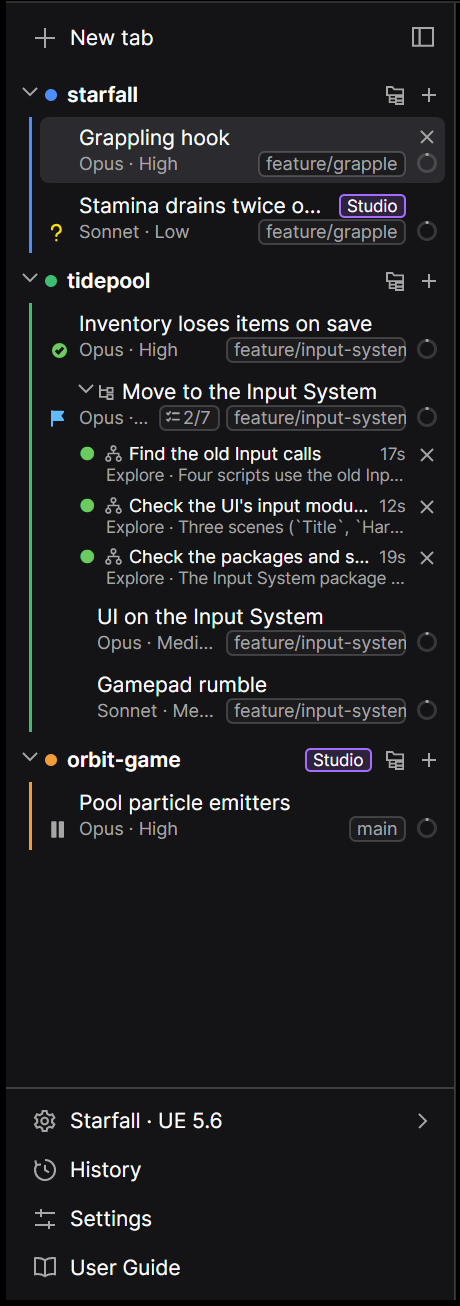
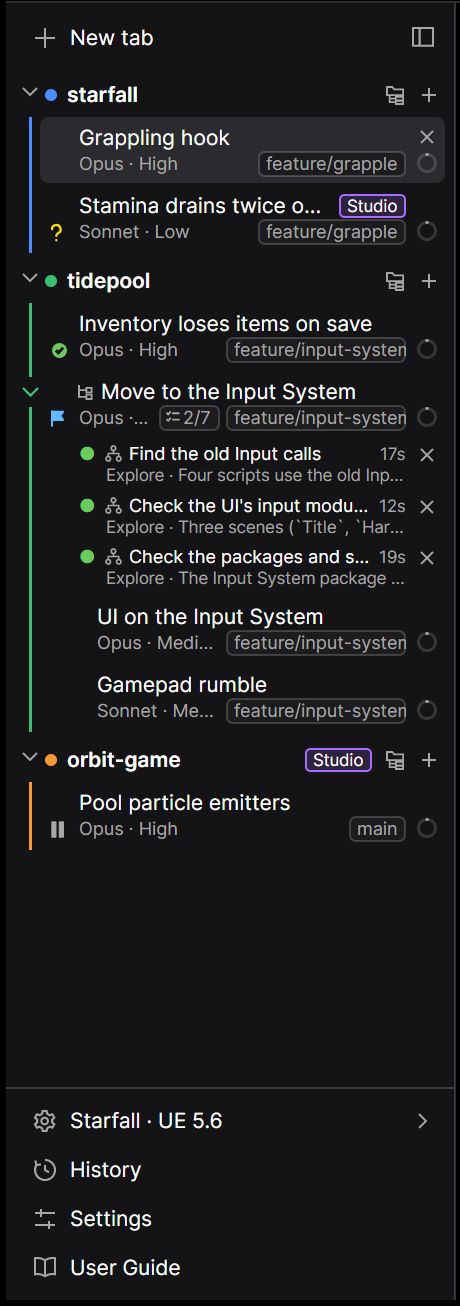
Put a tab's collapse chevron on its group's line
The chevron that folds away what's under a tab's row took room before
its name, so a thread or a tab with subagents looked as if it were under
the tab above it. It now sits on the group's colored line, in the
group's color and level with the name, with a gap in the line around it,
and takes no room in the row: every name in a group starts in the same
place, and only sub-threads are indented.

Controls/OnLine moves it across onto the line after each layout pass, on
whole screen pixels, so it's centered at any scale (margins counted from
the row's padding ended up a pixel off at 150%) and for a sub-thread too.
The tab rows and the list of tabs no longer clip, so it shows and can be
clicked out there.

Changed region(s): [[0.1826, 0.2757, 0.8217, 0.3063], [0.0609, 0.2757, 0.0913, 0.3063]]

diff --git a/tests/Claudette.App.UiTests/ThreadUiTests.cs b/tests/Claudette.App.UiTests/ThreadUiTests.cs
@@ -2,11 +2,14 @@ using Avalonia;
 using Avalonia.Automation;
 using Avalonia.Controls;
 using Avalonia.Headless.XUnit;
+using Avalonia.Input;
 using Avalonia.VisualTree;
 using Claudette.App.Services;
+using Claudette.App.Tests;
 using Claudette.App.Tests.Support;
 using Claudette.App.ViewModels;
 using Claudette.App.Views;
+using Claudette.Core.Settings;
 
 namespace Claudette.App.UiTests;
 
@@ -72,6 +75,48 @@ public class ThreadUiTests
         Assert.Same(plan, badge.DataContext);
         Assert.Equal("Collapsed: 2 sub-threads", ToolTip.GetTip(badge));
         Assert.Contains(badge.GetVisualDescendants().OfType<TextBlock>(), t => t is { Text: "2", IsEffectivelyVisible: true });
+    }
+
+    [AvaloniaFact]
+    public async Task The_chevron_sits_on_the_groups_line_level_with_the_name_and_takes_no_room_before_it()
+    {
+        await using var h = new TabTestHarness(s => s.Appearance.ShowSubagents = SubagentDisplay.InSidebar, dispatcher: new AvaloniaUiDispatcher());
+        h.Factory.ProcessPerSession = true;
+        var plan = await ThreadScript.OpenAsync(h, "Plan");
+        var other = await ThreadScript.OpenAsync(h, "Other");
+        var art = await ThreadScript.OpenAsync(h, "Art page");
+        h.Shell.MakeThreadCommand.Execute(plan);
+        art.AssignToThreadCommand.Execute(plan);
+        var window = UiText.Show(new ShellView { DataContext = h.Shell });
+        Point Middle(Control c) => c.TranslatePoint(new Point(c.Bounds.Width / 2, c.Bounds.Height / 2), window)!.Value;
+        double Left(Control c) => c.TranslatePoint(default, window)!.Value.X;
+        TextBlock Name(TabViewModel tab) => window.GetVisualDescendants().OfType<TextBlock>().First(t => t.DataContext == tab && t.Text == tab.DisplayName);
+        Button Fold(TabViewModel tab) => window.GetVisualDescendants().OfType<Button>().Single(b => b is { Name: "RowFold", IsEffectivelyVisible: true } && b.DataContext == tab);
+
+        var fold = Assert.Single(window.GetVisualDescendants().OfType<Button>(), b => b is { Name: "RowFold", IsEffectivelyVisible: true });
+        var line = Assert.Single(window.GetVisualDescendants().OfType<Border>(), b => b is { Name: "GroupLine", IsEffectivelyVisible: true });
+        var icon = Assert.Single(window.GetVisualDescendants().OfType<Border>(), b => b is { Name: "ThreadIcon", IsEffectivelyVisible: true });
+        var onLine = Left(line) + line.BorderThickness.Left / 2;
+
+        Assert.Same(plan, fold.DataContext);
+        Assert.Equal(onLine, Middle(fold).X, 0.01);
+        Assert.Equal(Middle(Name(plan)).Y, Middle(fold).Y, 0.5);
+        // What comes first in the thread's line, its thread icon, is where the other tab's name starts, and its gap in the
+        // line, taller than the name, leaves the row as tall as the others.
+        Assert.Equal(Left(Name(other)), Left(icon), 0.01);
+        Assert.True(fold.Bounds.Height > Name(plan).Bounds.Height, "The gap should reach past the name's line");
+        Button Row(TabViewModel tab) => window.GetVisualDescendants().OfType<Button>().Single(b => b.Classes.Contains("tabrow") && b.DataContext == tab);
+        Assert.Equal(Row(other).Bounds.Height, Row(plan).Bounds.Height);
+        // Clicking it reaches it, though it's outside the row.
+        Assert.Contains(fold, (window.InputHitTest(Middle(fold)) as Visual)?.GetSelfAndVisualAncestors() ?? []);
+
+        // A sub-thread's, 12 further in, is on the same line.
+        h.Transport.EmitTo(2, ThreadScript.Init());
+        h.Transport.EmitTo(2, Wire.Agent("a1", "Find the gallery's cards", "Find them", "Explore"));
+        await UiText.SettleUntilAsync(window, () => art.SubagentRows.Count == 1, "the sub-thread's subagent");
+        Assert.True(Left(Name(art)) > Left(Name(other)), "The sub-thread should be indented");
+        Assert.Equal(onLine, Middle(Fold(art)).X, 0.01);
+        Assert.Equal(Middle(Name(art)).Y, Middle(Fold(art)).Y, 0.5);
     }
 
     [AvaloniaFact]

diff --git a/src/Claudette.App/Controls/OnLine.cs b/src/Claudette.App/Controls/OnLine.cs
@@ -1,0 +1,68 @@
+using Avalonia;
+using Avalonia.Controls;
+using Avalonia.Media;
+using Avalonia.VisualTree;
+
+namespace Claudette.App.Controls;
+
+/// <summary>
+/// Centers a control on the line an ancestor border draws down its left edge (<see cref="LineProperty"/>, the border's
+/// name), such as a tab row's chevron on its group's line (DESIGN.md §4, "Sidebar"). The control stays where its layout
+/// puts it, which can be anywhere along the row; after each layout pass it's moved across onto the line, on whole screen
+/// pixels, with a render transform, so its layout, and the row's, stay as they were. Working it out from the line
+/// itself keeps it centered however far in the row is, and at any scale: margins counted from the row's own padding
+/// round to screen pixels one by one, and at 150% end up a pixel off.
+/// </summary>
+public static class OnLine
+{
+    /// <summary>The name of the ancestor border whose left edge is the line.</summary>
+    public static readonly AttachedProperty<string?> LineProperty =
+        AvaloniaProperty.RegisterAttached<Control, string?>("Line", typeof(OnLine));
+
+    static OnLine()
+    {
+        LineProperty.Changed.AddClassHandler<Control>((control, e) =>
+        {
+            control.LayoutUpdated -= OnLayoutUpdated;
+            if (e.GetNewValue<string?>() is not null)
+            {
+                control.LayoutUpdated += OnLayoutUpdated;
+            }
+            else
+            {
+                control.RenderTransform = null;
+            }
+        });
+    }
+
+    public static string? GetLine(Control element) => element.GetValue(LineProperty);
+
+    public static void SetLine(Control element, string? value) => element.SetValue(LineProperty, value);
+
+    /// <summary>How far across the control is moved, in pixels: left when it's negative.</summary>
+    internal static double ShiftOf(Control control) => control.RenderTransform is TranslateTransform shift ? shift.X : 0;
+
+    private static void OnLayoutUpdated(object? sender, EventArgs e)
+    {
+        if (sender is not Control control || GetLine(control) is not { } name || !control.IsEffectivelyVisible
+            || control.GetVisualAncestors().OfType<Border>().FirstOrDefault(b => b.Name == name) is not { } line
+            || TopLevel.GetTopLevel(control) is not { } top)
+        {
+            return;
+        }
+        var scale = top.RenderScaling * (control.TransformToVisual(top)?.M11 is > 0 and var zoom ? zoom : 1);
+        // The line as it's drawn: its thickness on whole screen pixels, as the border draws it.
+        var thickness = Math.Round(line.BorderThickness.Left * scale) / scale;
+        // Measured where the control is drawn, already moved by the shift it has now.
+        if (line.TranslatePoint(new Point(thickness / 2, 0), control) is not { } middle)
+        {
+            return;
+        }
+        var current = ShiftOf(control);
+        var shift = Math.Round((current + middle.X - control.Bounds.Width / 2) * scale) / scale;
+        if (Math.Abs(shift - current) > 0.01)
+        {
+            control.RenderTransform = shift == 0 ? null : new TranslateTransform(shift, 0);
+        }
+    }
+}

diff --git a/DESIGN.md b/DESIGN.md
@@ -389,13 +389,13 @@ The tabs are listed in a sidebar on the left of the window, rather than a strip 
   - Its menu (right-click): **Open beside** and **Close pane**, as a tab's ([§18](#split-panes)), **Copy output**, **Stop** while it runs, and **Close** once it's done. Like a tab's row, it can be dragged onto a pane, but not within the sidebar.
   - An entry never closes on its own, whatever the result. A finished one has a close button (×) that takes the entry and its log away. While it runs, a **Stop** button (■) is in that place instead, and ends the job as **Stop** over its log does; so a click on × never stops a build.
   - Closing the tab takes its entries away. They aren't saved, so they're gone when Claudette quits or restarts.
-- **Collapsing a tab.** ✅ Built 2026-10-20, from [issue #55](https://github.com/dotBunny/Claudette/issues/55). A tab with rows under it, its sub-threads ([§18](#threads)), its subagents' rows, its editor logs or its project runs, has a chevron beside its name, as a group's label does. A click on it, or **Collapse tab** in its menu or the command palette, folds them all away under the tab's row, and a sub-thread's own rows go with it; **Expand tab** brings them back.
+- **Collapsing a tab.** ✅ Built 2026-10-20, from [issue #55](https://github.com/dotBunny/Claudette/issues/55). A tab with rows under it, its sub-threads ([§18](#threads)), its subagents' rows, its editor logs or its project runs, has a chevron on its group's line, level with its name. A click on it, or **Collapse tab** in its menu or the command palette, folds them all away under the tab's row, and a sub-thread's own rows go with it; **Expand tab** brings them back.
   - **The collapsed row** keeps its two lines and adds a small badge on the first: how many rows it hides, a sub-thread counting once with what's under it, then the most urgent status among them in its own color, `!` waiting on you, ✕ an error, a failed run, or an editor's log that crashed or has errors not yet looked at, the busy dot while one works, • one that finished unseen, as a collapsed group's label shows its tabs'. A subagent from an earlier turn that failed doesn't count: its row is dimmed already. Nor does an editor that's running: one open for hours isn't work going on. The badge's tip says what it hides, then names each one waiting on you or failed, a line each: *"Collapsed: 2 sub-threads, 1 log and 1 run"*, *"Gallery · Needs your input"*.
   - **It opens again by itself** when something under it is gone to: a sub-thread selected from its notification or **Go to tab** in the thread's strip; a run's or an editor's log shown, from its entry, **Show output…**, its notification or a click in its pane; a subagent's work shown from the Agents page or its card. Also when a sub-thread joins it (**New sub-thread**, **Assign to thread**), since the new tab is selected, and when something under it starts waiting on you: a sub-thread, or a subagent with a prompt. A run, an editor's log or a subagent starting doesn't open it, so a fan-out can stay folded, and one collapsed again while something waits stays collapsed until something else starts waiting.
   - Collapsing leaves the selection as it is: a sub-thread, a run's log or a subagent's work that's showing stays showing, as with a collapsed group. `Ctrl+Tab` and `Ctrl/Cmd+1…9` still count a collapsed thread's sub-threads, as they count a collapsed group's tabs, and leave it collapsed.
   - It's saved with the tab, through restarts and restarting into a new build (`rowsCollapsed`); a copy starts expanded. Once nothing is left under the row, the tab forgets it was collapsed, so the next row to come shows, with the chevron.
-  - The chevron takes room before the name, so the name moves over when the tab gets its first row under it. Moving or dragging a collapsed thread takes its sub-threads along, as ever, and rows folded away aren't anywhere to drop a tab.
-  - **How it's built.** `TabViewModel.Rows.cs`: what's under the row, the fold (`TabState.RowsCollapsed`), the badge and when it opens by itself, with `RowUrgency` ranking the statuses for it and for a collapsed group's label. `ShellViewModel.SelectTab` opens a sub-thread's thread as it opens its group. `ThreadTests`, `SubagentTests` and `ProjectRunsTests` in the app, and `ThreadUiTests`.
+  - **Where the chevron is.** On the line in the group's color down the left of its tabs, centered on it, drawn in that color, with a gap in the line around it, level with the name; ∨ while expanded, › while collapsed. It takes no room in the row, so every name in a group starts in the same place whether or not its tab has rows under it, and only a sub-thread's indent says one tab is under another. A sub-thread's chevron is on the same line. Hovering it lights up its row, as hovering the row does. Moving or dragging a collapsed thread takes its sub-threads along, as ever, and rows folded away aren't anywhere to drop a tab.
+  - **How it's built.** `TabViewModel.Rows.cs`: what's under the row, the fold (`TabState.RowsCollapsed`), the badge and when it opens by itself, with `RowUrgency` ranking the statuses for it and for a collapsed group's label. `ShellViewModel.SelectTab` opens a sub-thread's thread as it opens its group. The chevron is laid out at the start of the name's line, taking no room, and `Controls/OnLine` moves it across onto the group's line (`GroupLine`) after each layout pass, on whole screen pixels, so it's centered at any scale and however far in its row is; the row and the list of tabs don't clip, so it shows and can be clicked out there. `ThreadTests`, `SubagentTests` and `ProjectRunsTests` in the app, and `ThreadUiTests`.
 - **A tab's menu** (right-click, in the full sidebar and the rail): **Rename**, **Reset name** while the tab has a name of its own, **Pin tab** or **Unpin tab**, **Mark** and **Clear mark** while it has one ([§4](#4-tabs--sessions), "Marks"), **Account ▸** once there are accounts besides Default ([§4](#accounts)), **Use usage credits** on the Default account ([§6](#tabs-that-dont-use-usage-credits)), **Sync to other machines** and **Sync now** while it syncs ([§9](#session-library-sync-across-machines)), **Connect to the Claude app** (disabled, with the reason as its tip, when the account can't use it) and **Open in the Claude app** while it's connected ([§18](#remote-control-the-claude-app)), **Tab settings…**, **Duplicate tab** ([§5](#rewind-and-branch)), **Open beside** and **Close pane** with tabs side by side ([§18](#split-panes)), the **Thread** submenu ([§18](#threads)), **Export conversation…** ([§5](#export)), **Copy session ID** once the tab has a session, **Trust this folder** while the tab runs without the folder's own Claude Code configuration ([§7](#folder-trust)), **Move up** and **Move down**, **Collapse tab** or **Expand tab** while the tab has rows under it ([Collapsing a tab](#sidebar)), **Close** and **Close other tabs**. The rail's menu is the same without **Reset name**, **Move up**, **Move down** and **Close other tabs**, and has **Collapse tab** only on a thread with sub-threads, which are all it lists under a tab. The project's actions and links aren't in it: they're in the project's row at the foot, which is there for every tab ([§18](#project-tools)).
 - **Top:** **New tab**, which opens the picker ([Opening a tab](#opening-a-tab)), and the button that collapses the sidebar.
 - **Foot:** the selected tab's project, a row that opens its menu of actions and links, whatever the folder holds ([§18](#project-tools)), **History** ([§9](#history)), the Claude Code update badge when there is one ([§12](#applying-it)), the Claudette update badge when there's a new release ([§2](#updating-claudette)), **New build ready** when a source build of Claudette has a new build ([§9](#working-on-claudette)), **Settings** ([§14](#14-settings)), and **User Guide**, an open book in the rail, which opens the guide in the browser ([User Guide](#user-guide)). Later features add their own entries here.

diff --git a/docs/tabs/the-sidebar.md b/docs/tabs/the-sidebar.md
@@ -85,7 +85,7 @@ When a tab has a lot under it, collapse it to fold them away. See [Collapsing a 
 
 ## Collapsing a tab
 
-A tab with rows under it, such as a thread's sub-threads, subagents, editor logs or project runs, has a chevron before its name, as a group's label does. Click the chevron, or choose **Collapse tab** in the [tab's menu](the-tabs-menu.md) or the [command palette](the-command-palette.md), to fold them all away under the tab's row. A sub-thread's own rows go with it. Click it again, or choose **Expand tab**, to bring them back.
+A tab with rows under it, such as a thread's sub-threads, subagents, editor logs or project runs, has a chevron on its folder group's colored line, level with its name. It takes no room in the row, so the tab's name stays in line with the others in its group. Click the chevron, or choose **Collapse tab** in the [tab's menu](the-tabs-menu.md) or the [command palette](the-command-palette.md), to fold them all away under the tab's row. A sub-thread's own rows go with it. Click it again, or choose **Expand tab**, to bring them back.
 
 - **The collapsed row** keeps its two lines and adds a small badge to the first: how many rows it hides, then the most urgent of them in its own color. That's `!` for one waiting on you; `✕` for an error, a failed run, or an editor's log that crashed or has errors you haven't looked at; the busy dot while one works; and `•` for one that finished while you were elsewhere. Hover the badge to see what it hides, such as *Collapsed: 2 sub-threads, 1 log and 1 run*, with a line for each one waiting on you or failed.
 - **It opens again by itself** when you go to something under it: a sub-thread from its notification or **Go to tab** in the thread's strip, a log from **Show output…** or its notification, or a subagent's work from the Agents page or its card. It also opens when a sub-thread joins the thread, and when something under it starts waiting on you. A run, an editor's log or a subagent starting doesn't open it, so a big fan-out can stay folded.

diff --git a/CHANGELOG.md b/CHANGELOG.md
@@ -24,6 +24,7 @@ The format follows [Keep a Changelog](https://keepachangelog.com/en/1.1.0/), and
 - **Appearance shows a preview** of your choices as you make them: a message, thinking and a reply in your style, density, fonts and zoom, with Claudette at her size.
 - **Tab settings… applies as you go.** Each change applies as you make it, as in Settings, each section has its own **Use defaults**, and **Done** closes it.
 - **Old sessions leave the session library after 15 days.** Settings → Sessions has **Delete sessions not used for a while**, which is on, with how many days under it, 15 to start. Once no machine has used or opened a session for that long, it's deleted from the library, and from History on every machine that shares the library. Opening a session from History counts as using it, even if you don't send anything. Claudette checks when it starts, then once a day while it's open. This replaces **Keep library sessions for**. If you'd chosen 1 month or 1 year, that's now 31 or 366 days. Forever, which was the default, becomes 15 days, so the first launch after you update deletes the library sessions no machine has used or opened in 15 days. Turn the switch off to keep sessions for good from then on.
+- **A tab's collapse chevron sits on its group's line.** The chevron that folds away what's under a tab, such as a thread's sub-threads or its subagents, used to push the tab's name over, so the tab looked as if it were under the one above it. It's now on the folder group's colored line, in the group's color and level with the name, so every name in a group starts in the same place and only sub-threads are indented.
 
 ### Fixed
 

diff --git a/docs/threads/making-a-thread.md b/docs/threads/making-a-thread.md
@@ -34,7 +34,7 @@ A thread's row has a thread icon before its name. Its tip says how many sub-thre
 
 Reordering keeps them together: **Move up** and **Move down** on a thread move it, with its sub-threads, past the next tab or thread, and on a sub-thread move it among its thread's. A sub-thread dragged away comes back. When a thread's sub-threads are working and nothing else needs saying, its second line reads *Thread · 2 of 3 working*.
 
-The chevron before a thread's name folds its sub-threads away under it, with everything under them, and the thread's row then counts them and shows the most urgent, such as `!` for a sub-thread waiting on you. See [Collapsing a tab](../tabs/the-sidebar.md#collapsing-a-tab).
+The chevron on the group's colored line, beside a thread's name, folds its sub-threads away under it, with everything under them, and the thread's row then counts them and shows the most urgent, such as `!` for a sub-thread waiting on you. See [Collapsing a tab](../tabs/the-sidebar.md#collapsing-a-tab).
 
 ## Showing a thread with its sub-threads
 
